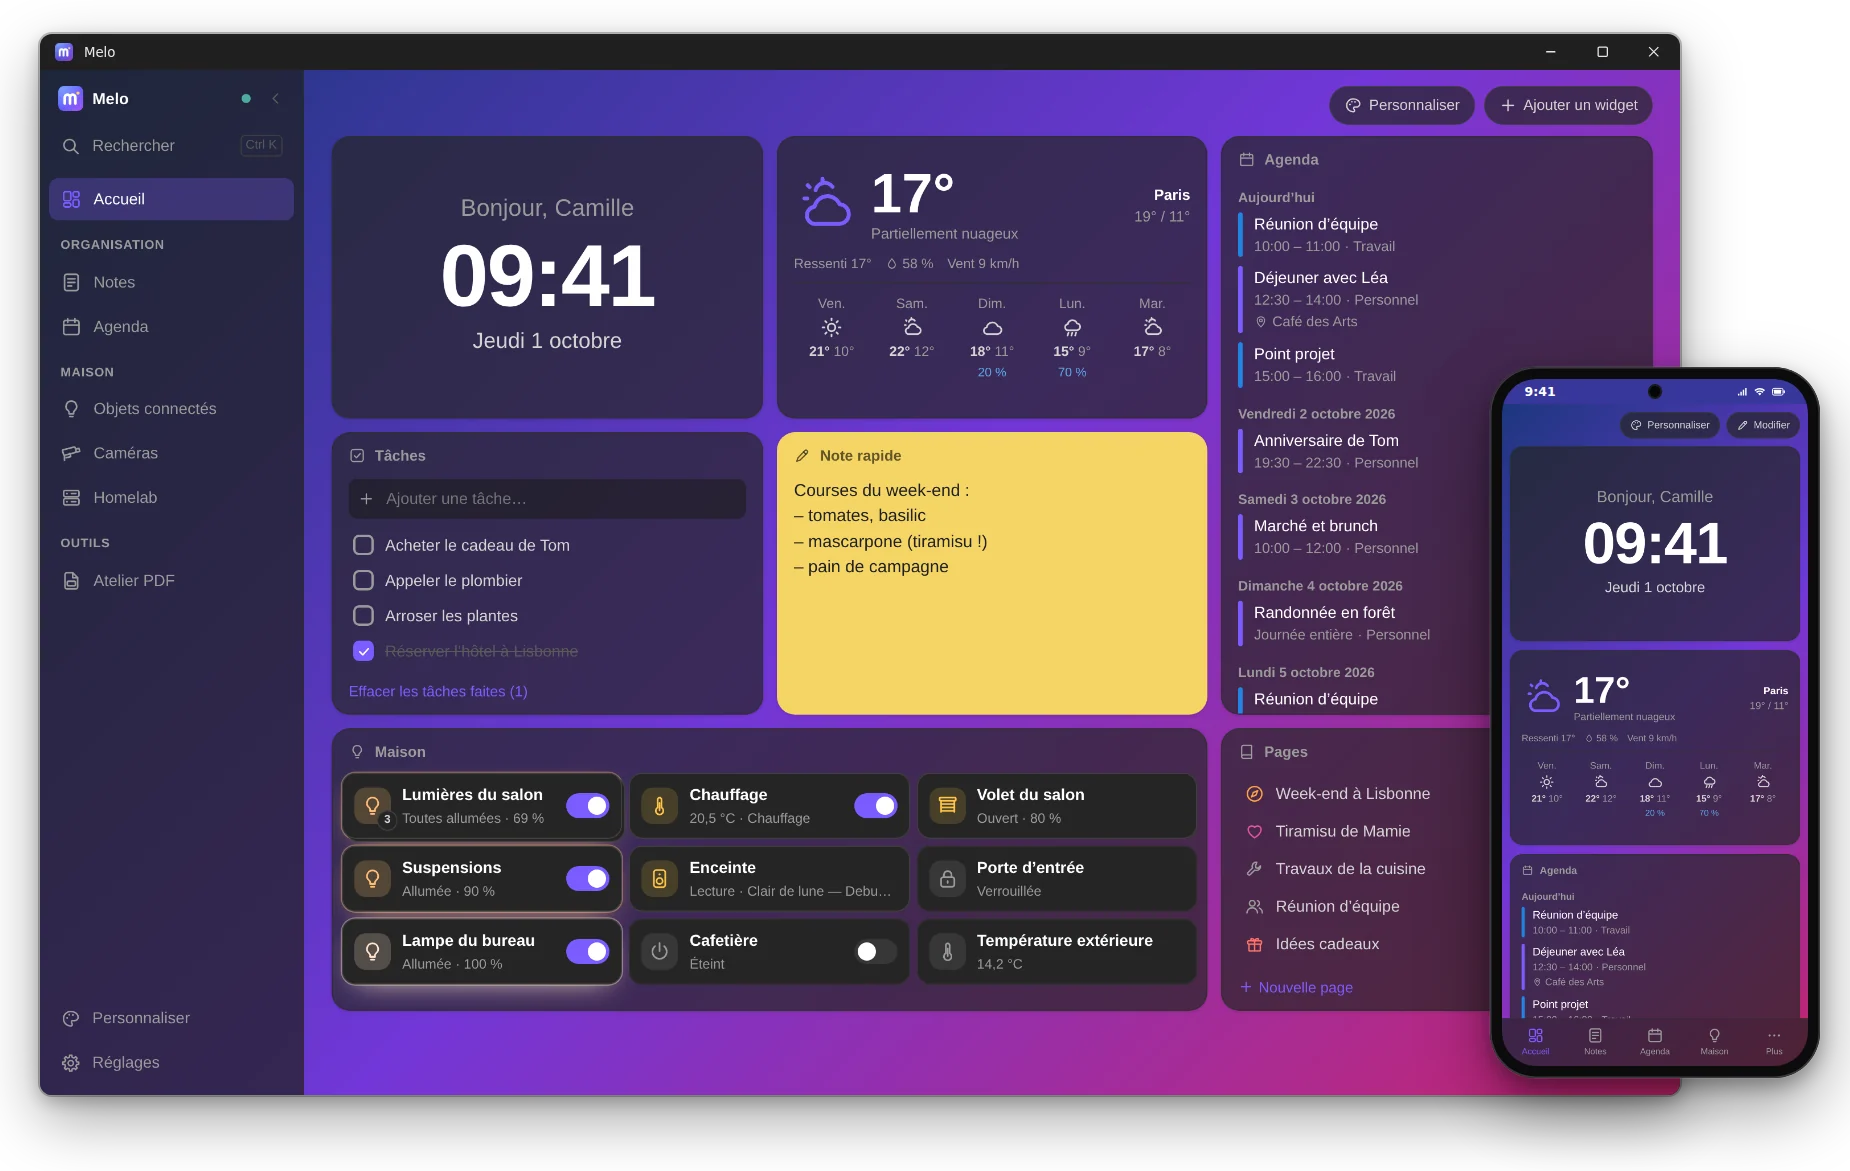
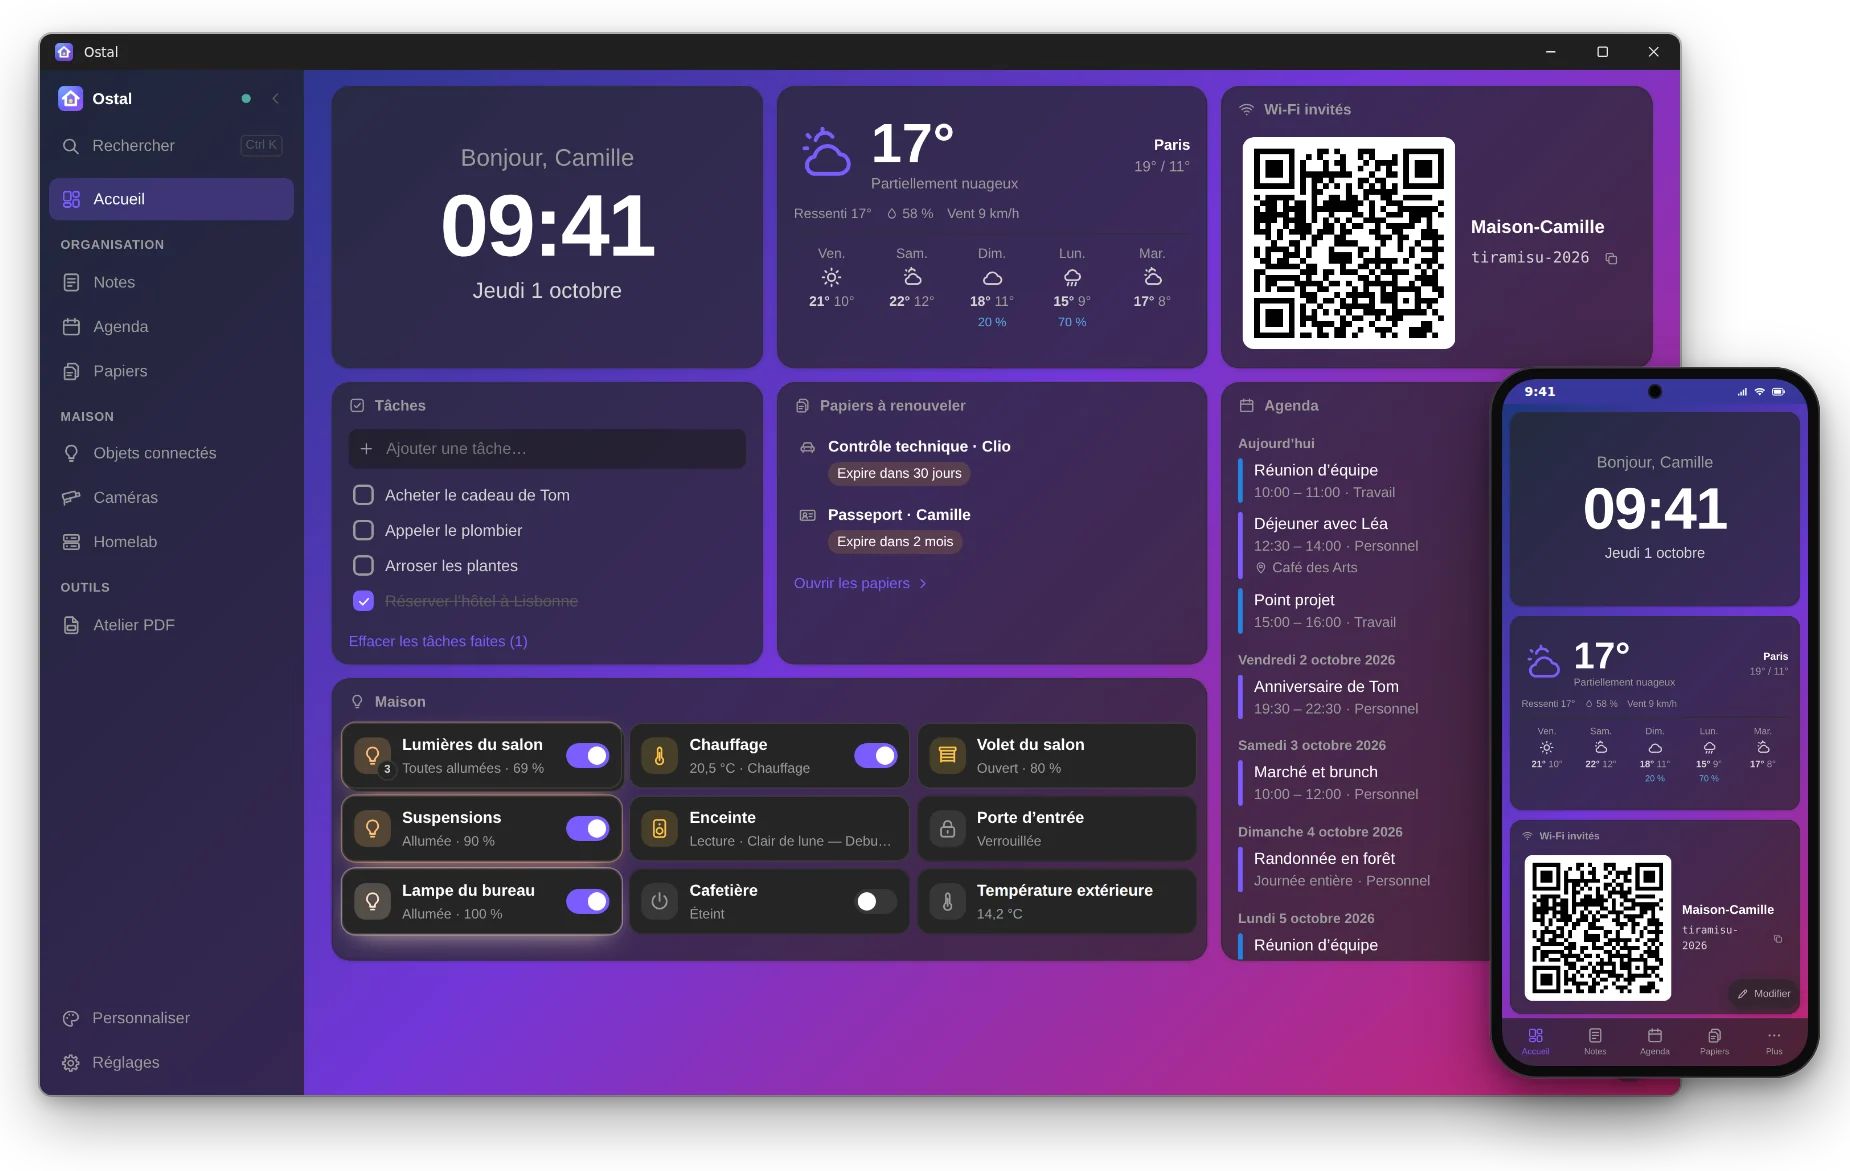
README : captures refaites sous le nom Ostal, avec les papiers, le Wi-Fi des invités et les vacances
Toutes les captures montraient encore « Melo » et l'ancien logo. Nouvelles prises de l'espace de
démonstration (documents « spécimen » dessinés, aucun vrai papier) : accueil avec « Papiers à
renouveler » et « Wi-Fi invités », agenda avec les vacances de la Toussaint (zone C) et le
1er novembre ajoutés tout seuls, nouvelle image de la section Papiers avec la notification d'un
rappel sur le téléphone.

Papiers : cartes un peu plus larges et échéance toujours sur une ligne (« Expire le 31 décembre
2026 » passait sur deux lignes).

Claude-Session: https://claude.ai/code/session_018V2ZQbBNpkhAC811fXR6aZ

diff --git a/client/src/styles.css b/client/src/styles.css
@@ -1629,7 +1629,7 @@ body:has(.nb-tabbar) .nb-toasts { bottom: calc(80px + var(--safe-bottom)); }
 .pp-group h2 { display: flex; align-items: center; gap: 8px; margin: 0 0 10px; font-size: calc(15px * var(--ui-scale)); color: var(--text-strong); }
 .pp-group--renew h2 { color: var(--warning); }
 .pp-count { font-weight: 400; font-size: calc(13px * var(--ui-scale)); }
-.pp-grid { display: grid; grid-template-columns: repeat(auto-fill, minmax(260px, 1fr)); gap: 10px; }
+.pp-grid { display: grid; grid-template-columns: repeat(auto-fill, minmax(300px, 1fr)); gap: 10px; }
 .pp-card {
   display: flex; align-items: center; gap: 12px; padding: 12px; min-width: 0; border: 1px solid var(--border); border-radius: 12px; background: var(--bg-elevated);
   color: var(--text); font: inherit; text-align: left; cursor: pointer;
@@ -1646,7 +1646,7 @@ body:has(.nb-tabbar) .nb-toasts { bottom: calc(80px + var(--safe-bottom)); }
 }
 .pp-thumb { width: 44px; height: 44px; border-radius: 8px; object-fit: cover; display: block; border: 1px solid var(--border); }
 .pp-thumb--icon { display: grid; place-items: center; background: var(--bg-hover); color: var(--text-muted); }
-.pp-due { display: inline-block; padding: 1px 8px; border-radius: 10px; font-size: calc(12px * var(--ui-scale)); line-height: 1.6; background: var(--bg-hover); color: var(--text-muted); }
+.pp-due { display: inline-block; max-width: 100%; overflow: hidden; text-overflow: ellipsis; white-space: nowrap; padding: 1px 8px; border-radius: 10px; font-size: calc(12px * var(--ui-scale)); line-height: 1.6; background: var(--bg-hover); color: var(--text-muted); }
 .pp-due--soon { background: color-mix(in srgb, var(--warning) 20%, transparent); color: var(--text-strong); }
 .pp-due--expired { background: color-mix(in srgb, var(--danger) 22%, transparent); color: var(--text-strong); }
 /* Fiche d'un papier */

diff --git a/README.md b/README.md
@@ -11,13 +11,13 @@ Gratuite, sans compte, sur Windows, Android et dans le navigateur.
 &nbsp;
 [![Télécharger pour Android](https://img.shields.io/badge/T%C3%A9l%C3%A9charger%20pour%20Android-2eaf7d?style=for-the-badge)](https://github.com/ShinezeoGame/Notes/releases/download/latest/Ostal-Android.apk)
 
-<img src="docs/captures/accueil.webp" width="100%" alt="L’accueil d’Ostal sur un ordinateur et sur un téléphone : heure, météo, agenda, tâches, note rapide, lumières de la maison et pages récentes">
+<img src="docs/captures/accueil.webp" width="100%" alt="L’accueil d’Ostal sur un ordinateur et sur un téléphone : heure, météo, Wi-Fi des invités en QR code, tâches, papiers à renouveler, agenda et lumières de la maison">
 
 </div>
 
 ## 🏠 Un accueil qui vous ressemble
 
-Météo, agenda, tâches, post-it, raccourcis, lumières du salon… Glissez vos widgets où vous voulez, choisissez un fond d’écran et un thème : en deux minutes, Ostal est chez vous.
+Météo, agenda, tâches, post-it, raccourcis, lumières du salon, Wi-Fi des invités en QR code… Glissez vos widgets où vous voulez, choisissez un fond d’écran et un thème : en deux minutes, Ostal est chez vous.
 
 <img src="docs/captures/themes.webp" width="100%" alt="Le même accueil en trois apparences : thème forêt, thème clair et thème lavande">
 
@@ -37,11 +37,13 @@ Tapez `/tableau` dans une page : formules en français (`SOMME`, `SI`, `RECHERCH
 
 Google, Outlook, Apple, le travail, l’école : un seul calendrier, chaque agenda dans sa couleur, sur l’accueil et dans sa propre section. Les jours fériés et les vacances scolaires s’y ajoutent tout seuls.
 
-<img src="docs/captures/agenda.webp" width="100%" alt="Le mois d’octobre avec les agendas Personnel, Travail et École">
+<img src="docs/captures/agenda.webp" width="100%" alt="Le mois d’octobre avec les agendas Personnel, Travail et École, les vacances de la Toussaint (zone C) et le 1er novembre, ajoutés tout seuls">
 
 ## 🗂 Vos papiers, et un rappel avant chaque échéance
 
 Carte d’identité, passeport, carte grise, assurances, garanties : photographiez-les, retrouvez-les en un instant, même au guichet. Ostal vous prévient avant qu’ils expirent, et rappelle aussi les événements de vos agendas, sur le téléphone et l’ordinateur. Vos papiers restent sur votre serveur.
+
+<img src="docs/captures/papiers.webp" width="100%" alt="Les papiers de la maison rangés par catégorie, avec « À renouveler » en tête ; sur le téléphone, la notification « Contrôle technique · Clio : expire dans 30 jours »">
 
 ## 💡 La maison sous la main
 
